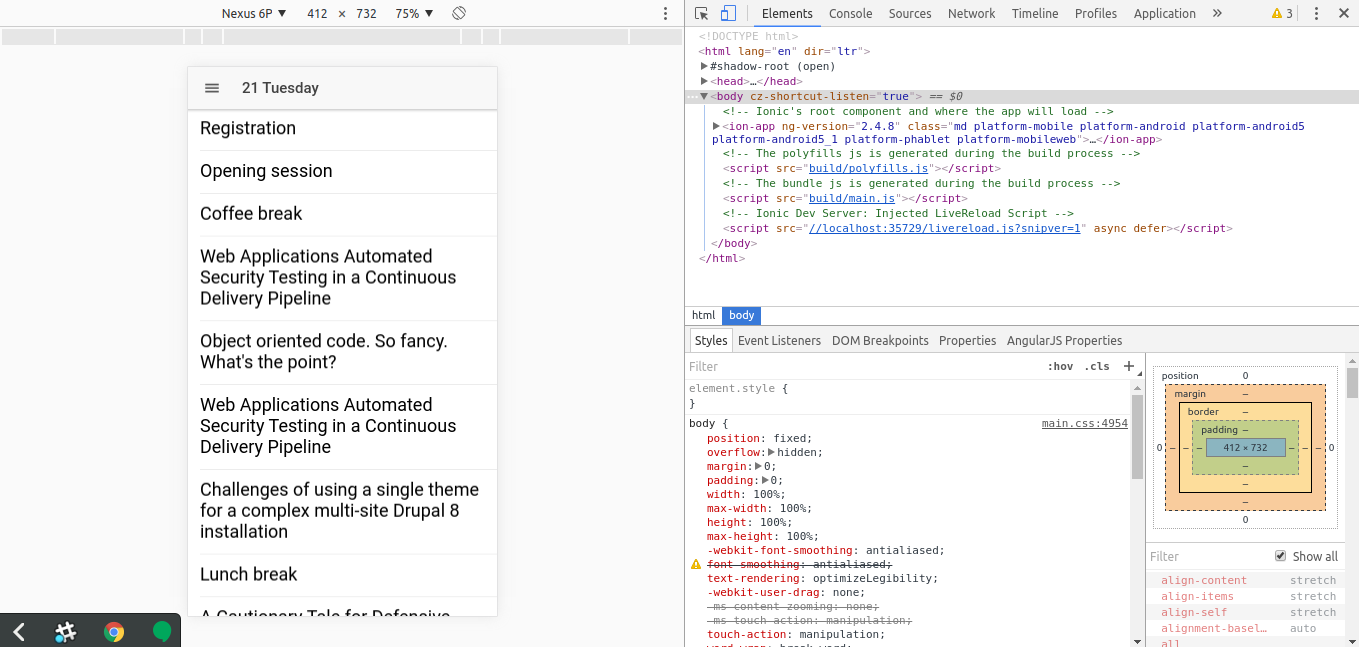
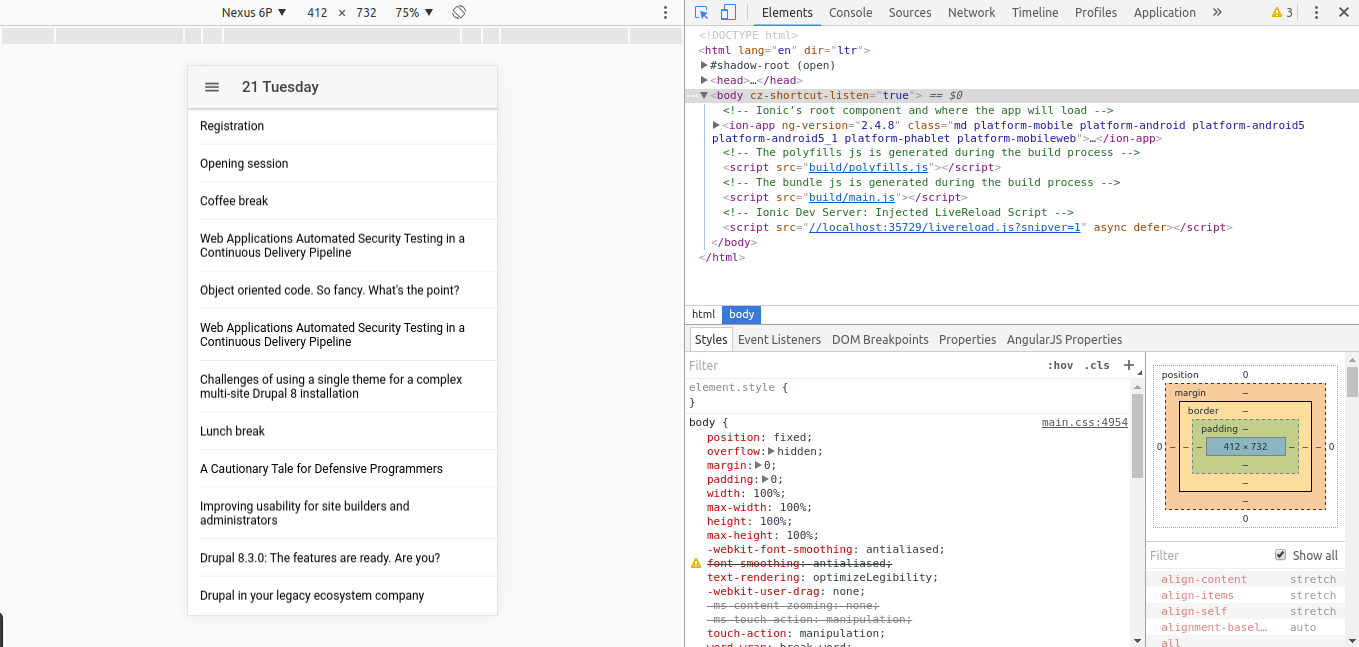
Finish program page

diff --git a/README.md b/README.md
@@ -6,6 +6,8 @@
 
 [**3. Representing data**](#3-representing-data)
 
+[**4. Making things pretty**](#4-making-things-pretty)
+
 ## 1. Getting data from Drupal
 
 It's time to give some content to our **Program Page**. But to do it we must get data from somewhere and here is where the RESTful api we prepared on Drupal comes into play.
@@ -93,7 +95,7 @@ We can add now a constructor that takes one of the objects from Drupal an return
     this.endTime = times && times[1].trim();
     this.level = rawSession.field_session_level;
     this.target = rawSession.field_session_track_type;
-    this.type = rawSession.field_session_type;
+    this.type = rawSession.type;
     this.venue = rawSession.field_break_description || rawSession.field_room;
   }
 ```
@@ -128,7 +130,7 @@ We can then start with the markup, so we go to the program.html file. First we w
 </ion-list>
 ```
 
-This syntax is a little bit special. We use square brackets in an attribute to tell Angular that the value we are assigning to the attribute is a variable. In this case we are assigning to the virtualItem attribute (it's a directive, actually) the array of sessions to iterate through.
+This syntax is a little bit special. We use square brackets in an attribute to tell Angular that the value we are assigning to the attribute is a variable. In this case we are assigning to the virtualItem attribute (it's a directive, actually, an Angular construct to extend html) the array of sessions to iterate through.
 The virtual scroll will set a fixed number of items in the DOM according with the size of the screen and the size of the items and handle the scroll just changing the content of these items. Having a DOM with less item increases performance dramatically since we limit the number of event listeners.
 The asterisk syntax is used by directives that altere the DOM (as the ngFor was doing before). The **virtualItem** attribute works with the previous **virtualScroll** and provides a way to define the variable we use in the iteration.
 Finally we use innerHtml to correctly show the titles because they contain characters defined by its ASCII code and text-wrap to allow the text to spread to as many lines as it needs.
@@ -136,4 +138,90 @@ It should look like this by now:
 
 ![basic_list](./images/basic_list.png)
 
+Next thing we need is a way to show the start time of the events. We can use [list dividers](http://ionicframework.com/docs/v2/components/#list-dividers) as a way to group events by start time and show this information.
+So we add an **ion-item-divider** element and we will populate it using another feature of the virtual scroll api, the **headerFn**. This is a method that Ionic will call for each item during the iteration. We must define the method with the following signature:
+```typescript
+getStartTime(record, recordIndex, records): string {
 
+}
+```
+
+With these parameters we must return the header for the given record and Ionic will take care of grouping the items that share the same header. So we write a method that looks like:
+```typescript
+  getStartTime(record, recordIndex, records): string {
+    if (recordIndex === 0) {
+      return record.startTime;
+    } else {
+      return record.startTime === records[recordIndex - 1].startTime ? null : record.startTime;
+    }
+  }
+```
+
+Now we use this method in the view by adding to the _ion-item_ element a **headerFn** attribute that refers to this method. We are using here a variable so we must wrap the attribute in square brackets ```[headerFn]="getStartTime"```.
+Then we bind the returned header to oure _ion-item-divider_ with a **virtualItem** attribute that allows us store that value in a variable to be used. So our _ion-item-divider_ will look like this:
+```html
+<ion-item-divider *virtualHeader="let startTime" color="light">{{startTime}}</ion-item-divider>
+```
+
+The color attribute is another feature of Ionic that allows to assing theme defined colors to elements. You can check this colors in [this file](./DrupalDevDays/src/theme/variables.scss). In this case we assign the light color to set a light gray to our dividers. 
+
+## 4. Making things pretty
+
+Let's do our list look a little bit better by adding an image to represent the target of each session.
+But first things first, download [this zip file](./images.zip) and unzip it in the _src/assets_ folder. You should end up with a _src/assets/images_ folder containing the nine image files we will be using.
+We will use the [avatar-list](http://ionicframework.com/docs/v2/components/#avatar-list) to show this image. This image will deppend on the type and track of session.
+To achieve this we will create a method in our page class that will return the url of the image depending on the session:
+```typescript
+  getImage(session: Session): string {
+    if (session.type) {
+      const imageName: string = this.getImageNameFromTarget(session.target);
+      return `assets/images/${imageName}.svg`
+    } else {
+      return 'assets/images/poison.svg';
+    }
+  }
+
+  private getImageNameFromTarget(target: string): string {
+    const result = target || 'other';
+    return result.toLowerCase()
+                 .replace(' ', '-');
+  }
+```
+
+Now we add the **ion-avatar** element inside the _ion-item_ element to show the image:
+```html
+<ion-avatar item-left>
+  <img [src]="getImage(session)">
+</ion-avatar>
+```
+
+Again we are using square brackets with the _src_ attribute because we are using a variable to define the content of the src. This will prevent errors loading the image while getting the url.
+We also used the _item-left_ because we want our image to be shown to the left of the list.
+
+There are yet a couple of extra fields we can show in our list: the level and the type of session.
+We will use another Ionic built-in component, the **ion-note**. We want them to be placed in a new line so we will define a div that wraps our two **ion-note** elements. We will use the _text-uppercase_ attribute and add a litle bit of styling to have each a note to the left and the other to the right.
+```html
+<div class="session-extra-info" text-uppercase>
+  <ion-note>{{session.type}}</ion-note>
+  <ion-note>{{session.level}}</ion-note>
+</div>
+```
+
+We add the styling to the _program.scss_ file.
+```scss
+h2 {
+  margin-bottom: 2rem !important;
+}
+
+.session-extra-info {
+  ion-note:nth-child(2) {
+    float: right;
+  }
+}
+```
+
+This is what we have so far.
+
+![detailed_list](./images/detailed_list.png)
+
+Time to start working on the **Session Page**. Jump to the next branch to keep coding.
